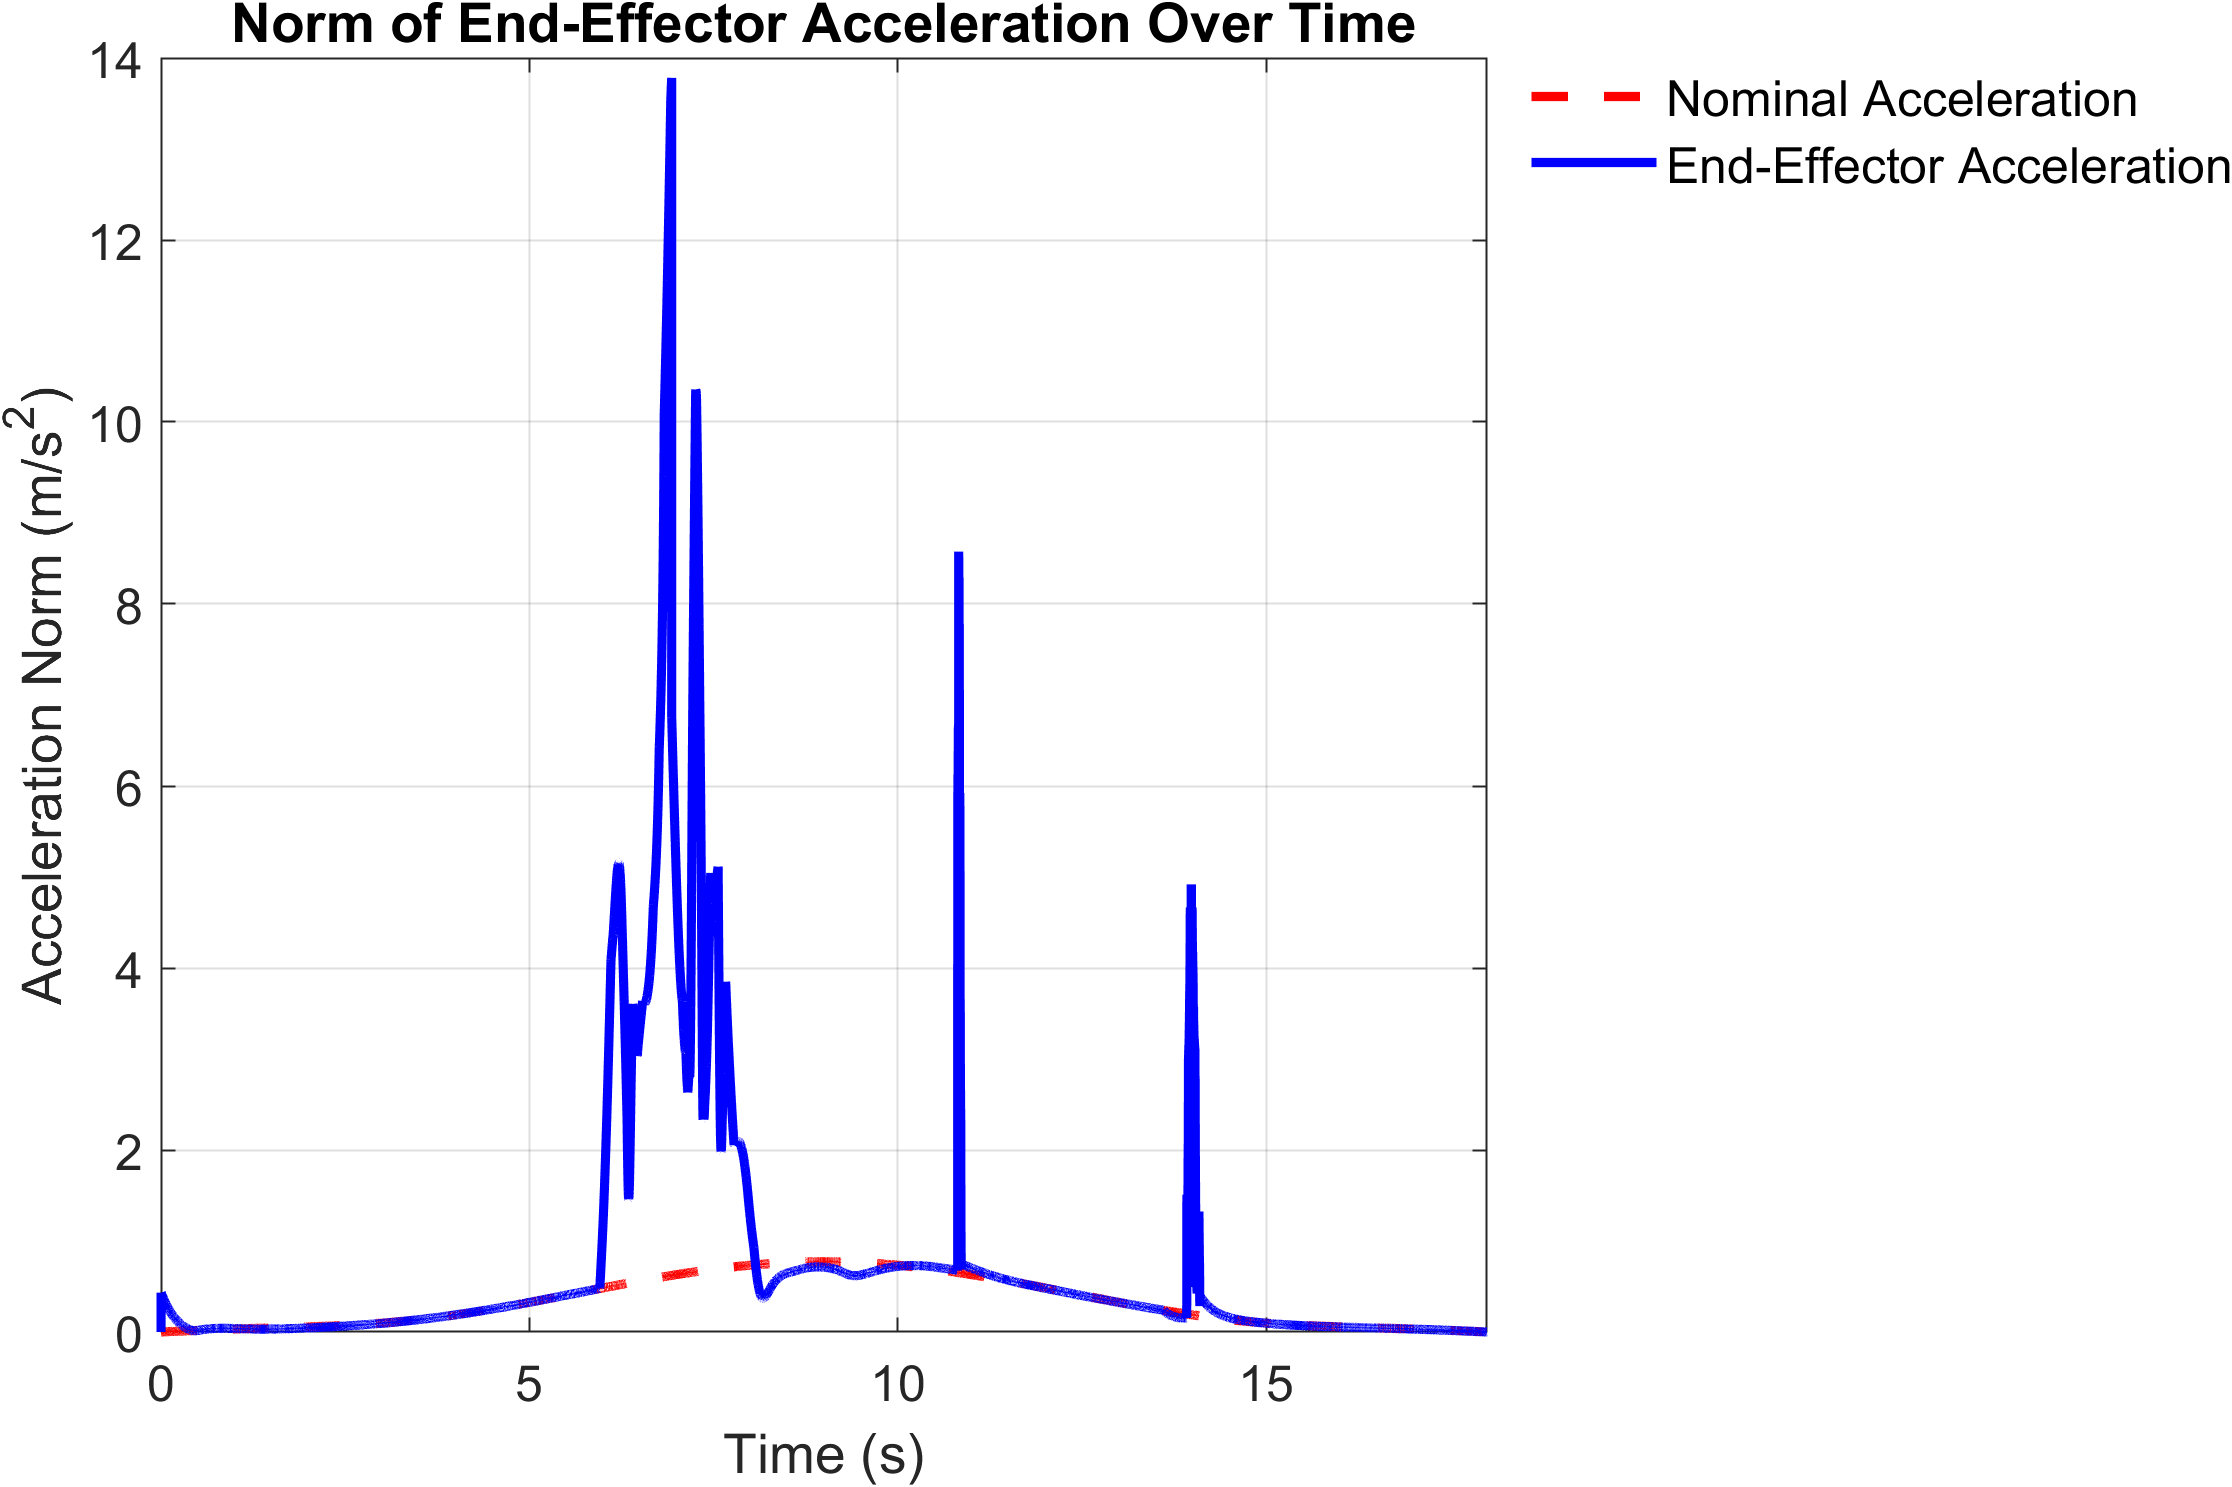
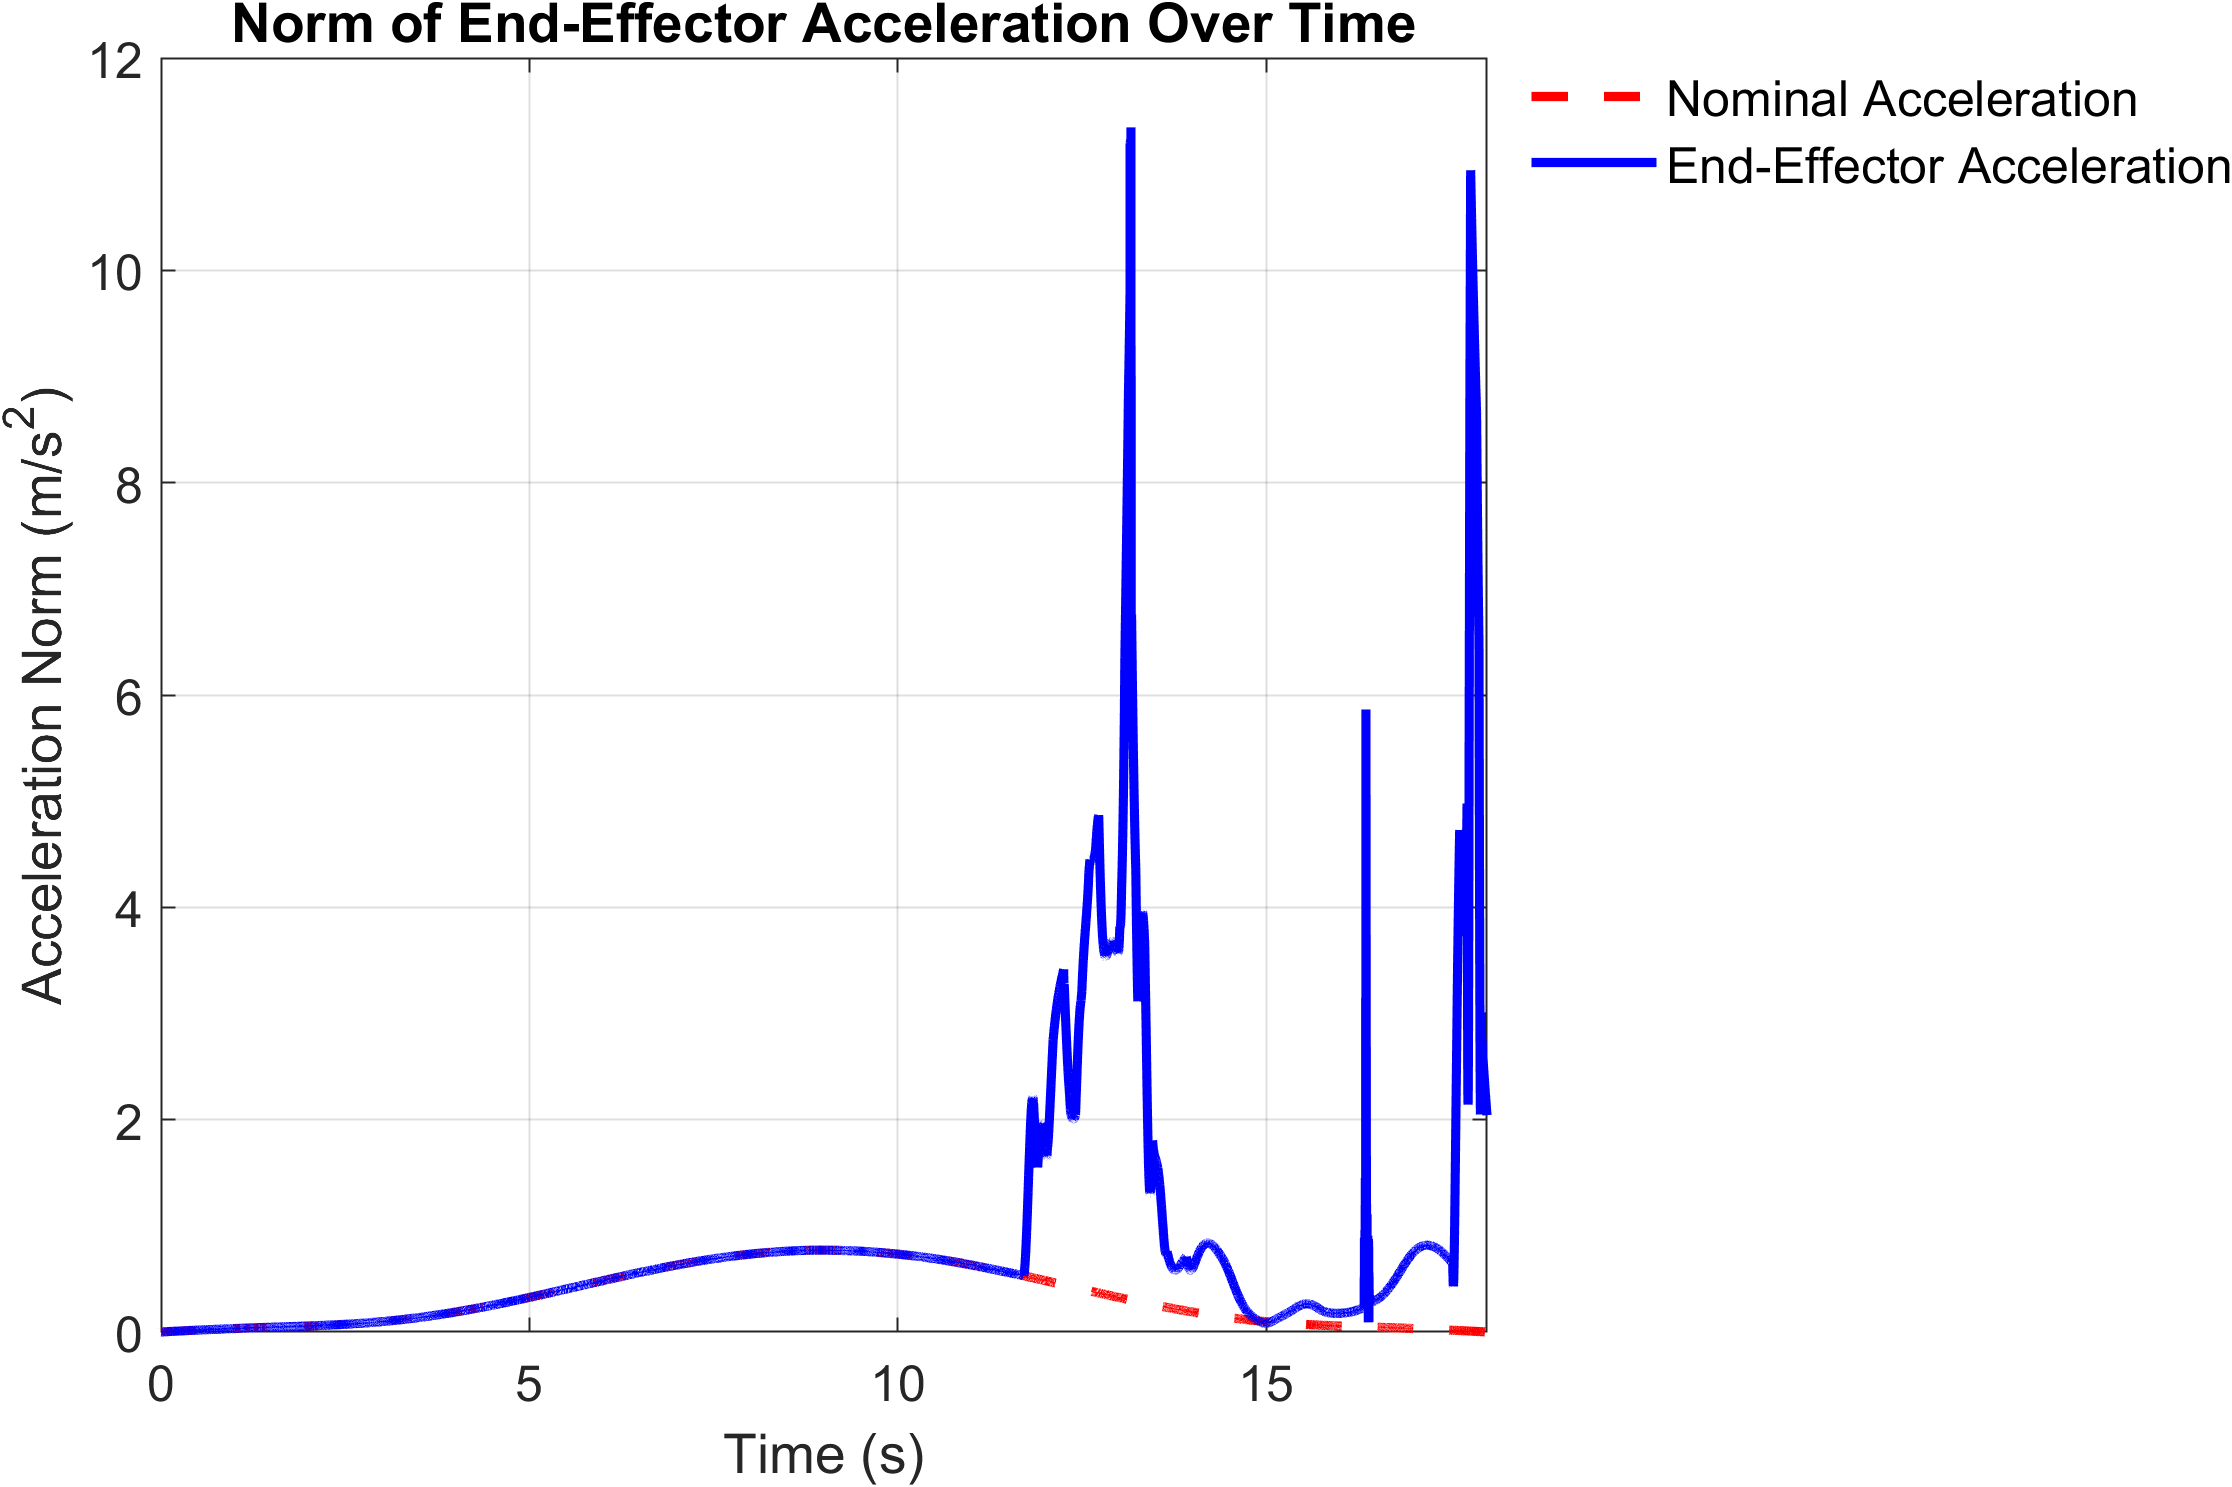
corretti t_sing

diff --git a/src/orientation_circular.m b/src/orientation_circular.m
@@ -10,6 +10,12 @@ addpath("./Plots/")
 %% GLOBALS
 N = 7; % number of joints
 T = 18; % total time for the trajectory [s]
+rep = 3;
+R = 0.2; % radius of the circular path [m]
+alpha = 1;
+damp = 2;
+use_RG = true; % use reduced gradient step if true, else use projected gradient step
+use_accel = true; % use acceleration if true, else use velocity
 
 %% LIMITS (from Docs)
 LIM_q_max       = [2.7437, 1.7837, 2.9007, -0.1518, 2.8065, 4.5169, 3.0159]'; % [rad]
@@ -49,14 +55,13 @@ q_sing = q_s{3};
 % delta = [dx; dy; dz];
 
 % singularity at -0.23, 0.28. 0.89
-R = 0.2;
+
 gamma = -pi/2;
 
 C = [p_sing(1);
      p_sing(2);
      p_sing(3) - R];
 
-rep = 3;
 freq = rep/T; 
 %% DEFINING DESIRED TRAJECTORY 
 t_in = 0; % initial time [s]
@@ -65,13 +70,12 @@ t_fin = t_in + T; % final time [s]
 syms t_sym real
 tau = t_sym / T;
 
-
 s = 2* rep * pi * (6 * tau^5 - 15 * tau^4 + 10 * tau^3);
 
 eq1 = s == pi;
 t_sing_1 = double(solve(eq1, t_sym));
 eq2 = s == 3*pi;
-t_sing_2 = solve(eq2, t_sym);
+t_sing_2 = double(solve(eq2, t_sym));
 eq3 = s == 5*pi;
 t_sing_3 = double(solve(eq3, t_sym));
 
@@ -135,10 +139,7 @@ error_list = []; % to store error norms
 
 qA_idx = [1,2,4,5,6,7]; % indices of joints in A (nonsingular)
 qB_idx = [3]; % indices of joints in B (N-M = 1)
-alpha = 1;
-damp = 2;
-use_RG = true; % use reduced gradient step if true, else use projected gradient step
-use_accel = true; % use acceleration if true, else use velocity
+
 
 dt = 0.001; % time step
 t = 0.0;

diff --git a/src/Trajectory/reduced_grad_step_acc.m b/src/Trajectory/reduced_grad_step_acc.m
@@ -31,7 +31,7 @@ function ddq = reduced_grad_step_acc(q, dq, ddr, qA_idx, qB_idx, p_d, dp_d, alph
     % disp("J_b: ");
     % disp(J_b);
 
-    J_a_inv = inv(J_a); % (N_a x M) matrix, where N_a = length(qA_idx), M = 3 or 6
+    J_a_inv = pinv(J_a); % (N_a x M) matrix, where N_a = length(qA_idx), M = 3 or 6
     %J_a_inv = DLS(J_a); % damped least squares inverse of J_a
 
     H = @(q) simpler_H(q); % function to maximize distance from singularities
